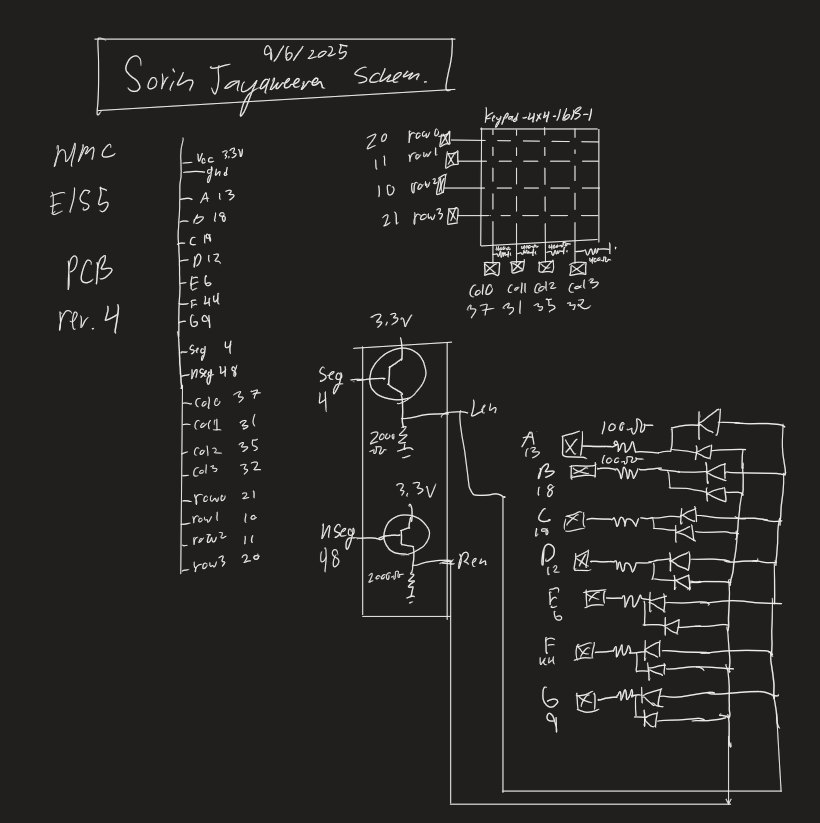
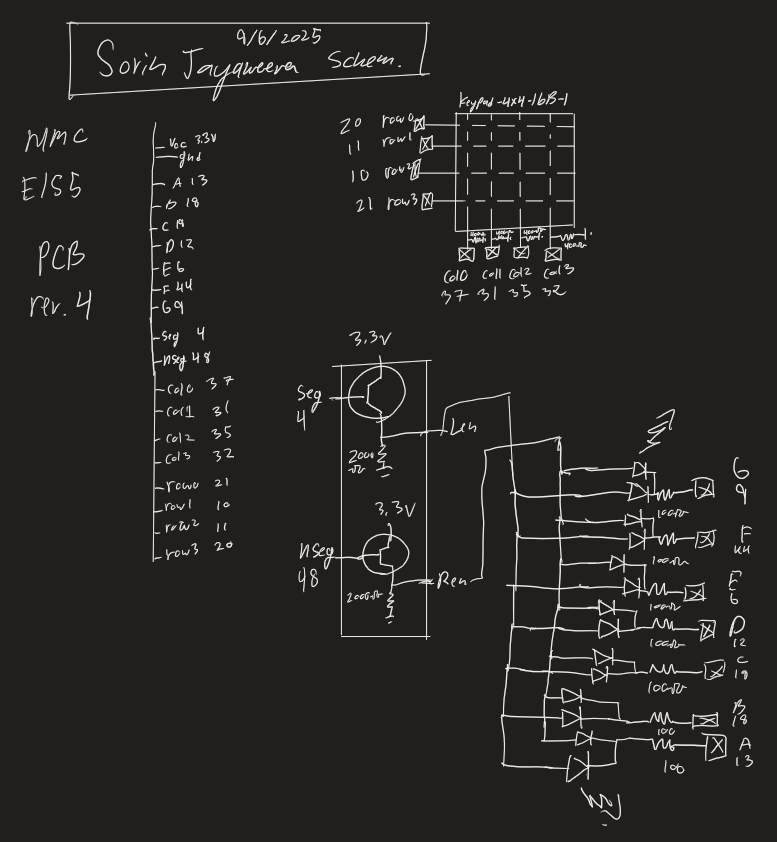
Built site for gh-pages

diff --git a/labs/lab2/lab.html b/labs/lab2/lab.html
@@ -196,7 +196,10 @@ window.Quarto = {
     <h2 id="toc-title">On this page</h2>
    
   <ul>
-  <li><a href="#introduction" id="toc-introduction" class="nav-link active" data-scroll-target="#introduction">Introduction</a></li>
+  <li><a href="#lab-2-redo" id="toc-lab-2-redo" class="nav-link active" data-scroll-target="#lab-2-redo">Lab 2 Redo</a></li>
+  <li><a href="#old-version-of-lab-2" id="toc-old-version-of-lab-2" class="nav-link" data-scroll-target="#old-version-of-lab-2">Old version of lab 2</a>
+  <ul class="collapse">
+  <li><a href="#introduction" id="toc-introduction" class="nav-link" data-scroll-target="#introduction">Introduction</a></li>
   <li><a href="#design-and-testing-methodology" id="toc-design-and-testing-methodology" class="nav-link" data-scroll-target="#design-and-testing-methodology">Design and Testing Methodology</a></li>
   <li><a href="#technical-documentation" id="toc-technical-documentation" class="nav-link" data-scroll-target="#technical-documentation">Technical Documentation</a>
   <ul class="collapse">
@@ -214,6 +217,7 @@ window.Quarto = {
   <li><a href="#seglut.sv" id="toc-seglut.sv" class="nav-link" data-scroll-target="#seglut.sv">segLUT.sv</a></li>
   <li><a href="#test_segs_v3.sv" id="toc-test_segs_v3.sv" class="nav-link" data-scroll-target="#test_segs_v3.sv">test_segs_v3.sv</a></li>
   <li><a href="#test_sum_v2.sv" id="toc-test_sum_v2.sv" class="nav-link" data-scroll-target="#test_sum_v2.sv">test_sum_v2.sv</a></li>
+  </ul></li>
   </ul></li>
   </ul>
 </nav>
@@ -261,6 +265,16 @@ window.Quarto = {
 </header>
 
 
+<section id="lab-2-redo" class="level1">
+<h1>Lab 2 Redo</h1>
+<p>The FPGA can sink at max 8 mA per pin (lets say 6 to be safe). There are 7 pins, so 42 mA has to be supplied from the transistor. At 42 mA from the collector, the transistor has a 60 X gain, so the FPGA needs to supply 0.7 mA.</p>
+<p>The FPGA outputs 3V, and there is a 0.7 V drop from VBE, so 2.3 V. To get 7 mA, this needs a 330 ohm resistor.</p>
+<p>When active, the transistor looses 0.3 V from VCE saturation, so 3 V from the transistor output to ground. This goes to the LEDS, which each have a 2 V drop. There is 1 V across the resistors to the FPGA ground. These resistors have to restrict the current to maximum 8 mA, so they must be a minimum of 125 ohms.</p>
+<p>The schematic was updated to provide a constant current supply to each led on the 8 segment display so that the brightness does not vary with the number of segments active. The resistors going into the transistor were decreased from to allow more current into the base, such that the amplified current (50x) is sufficient to fully power all segments.</p>
+<p>Datasheets: https://docs.broadcom.com/doc/HDSP-521A-523A-Dual-Digit-General-Purpose-7-Segment-Display-DS https://hmc-e155.github.io/assets/doc/FPGA-DS-02008-2-0-iCE40-UltraPlus-Family-Data-Sheet.pdf https://docs.broadcom.com/doc/HDSP-521A-523A-Dual-Digit-General-Purpose-7-Segment-Display-DS</p>
+</section>
+<section id="old-version-of-lab-2" class="level1">
+<h1>Old version of lab 2</h1>
 <section id="introduction" class="level2">
 <h2 class="anchored" data-anchor-id="introduction">Introduction</h2>
 <p>Two 4 pin DIP switches are used to control HEX numbers on two seven segment displays. Time multiplexing was used such that only one look up table was needed, with each each 7 segment display being alternatively driven at 80 hz. The sum of the numbers is displayed in binary on 5 LEDS.</p>
@@ -511,6 +525,7 @@ always
 <p>endmodule</p>
 
 
+</section>
 </section>
 </section>
 

diff --git a/labs/lab3/lab.html b/labs/lab3/lab.html
@@ -245,6 +245,7 @@ ul.task-list li input[type="checkbox"] {
 <section id="state-machine-debounce-logic" class="level3">
 <h3 class="anchored" data-anchor-id="state-machine-debounce-logic">State Machine Debounce Logic</h3>
 <p><img src="../..\images/lab3/fsm.png" class="img-fluid"></p>
+<p><img src="../..\images/lab3/state_transition.png" class="img-fluid"></p>
 </section>
 <section id="block-diagram" class="level3">
 <h3 class="anchored" data-anchor-id="block-diagram">Block Diagram</h3>
@@ -263,7 +264,7 @@ ul.task-list li input[type="checkbox"] {
 <section id="results-and-discussion" class="level2">
 <h2 class="anchored" data-anchor-id="results-and-discussion">Results and Discussion</h2>
 <p>The device was constructed to hit each constraint - the keyboard has no debounce toggles and accepts user inputs, and the most recent two digits are displayed. The keypad will not accept any numbers that are pressed for the duration of another button.</p>
-<p>The debounce length chosen is somewhat lengthy, and may be reduced for optimization.</p>
+<p>The debounce length chosen is somewhat lengthy, and may be reduced for optimization. This method is easy to impliment and acts as a low pass filter to reduce noise from particularly bad buttons.</p>
 <p>Time spent: No clue, maybe ~ 15 hrs</p>
 </section>
 <section id="ai-overview" class="level2">
